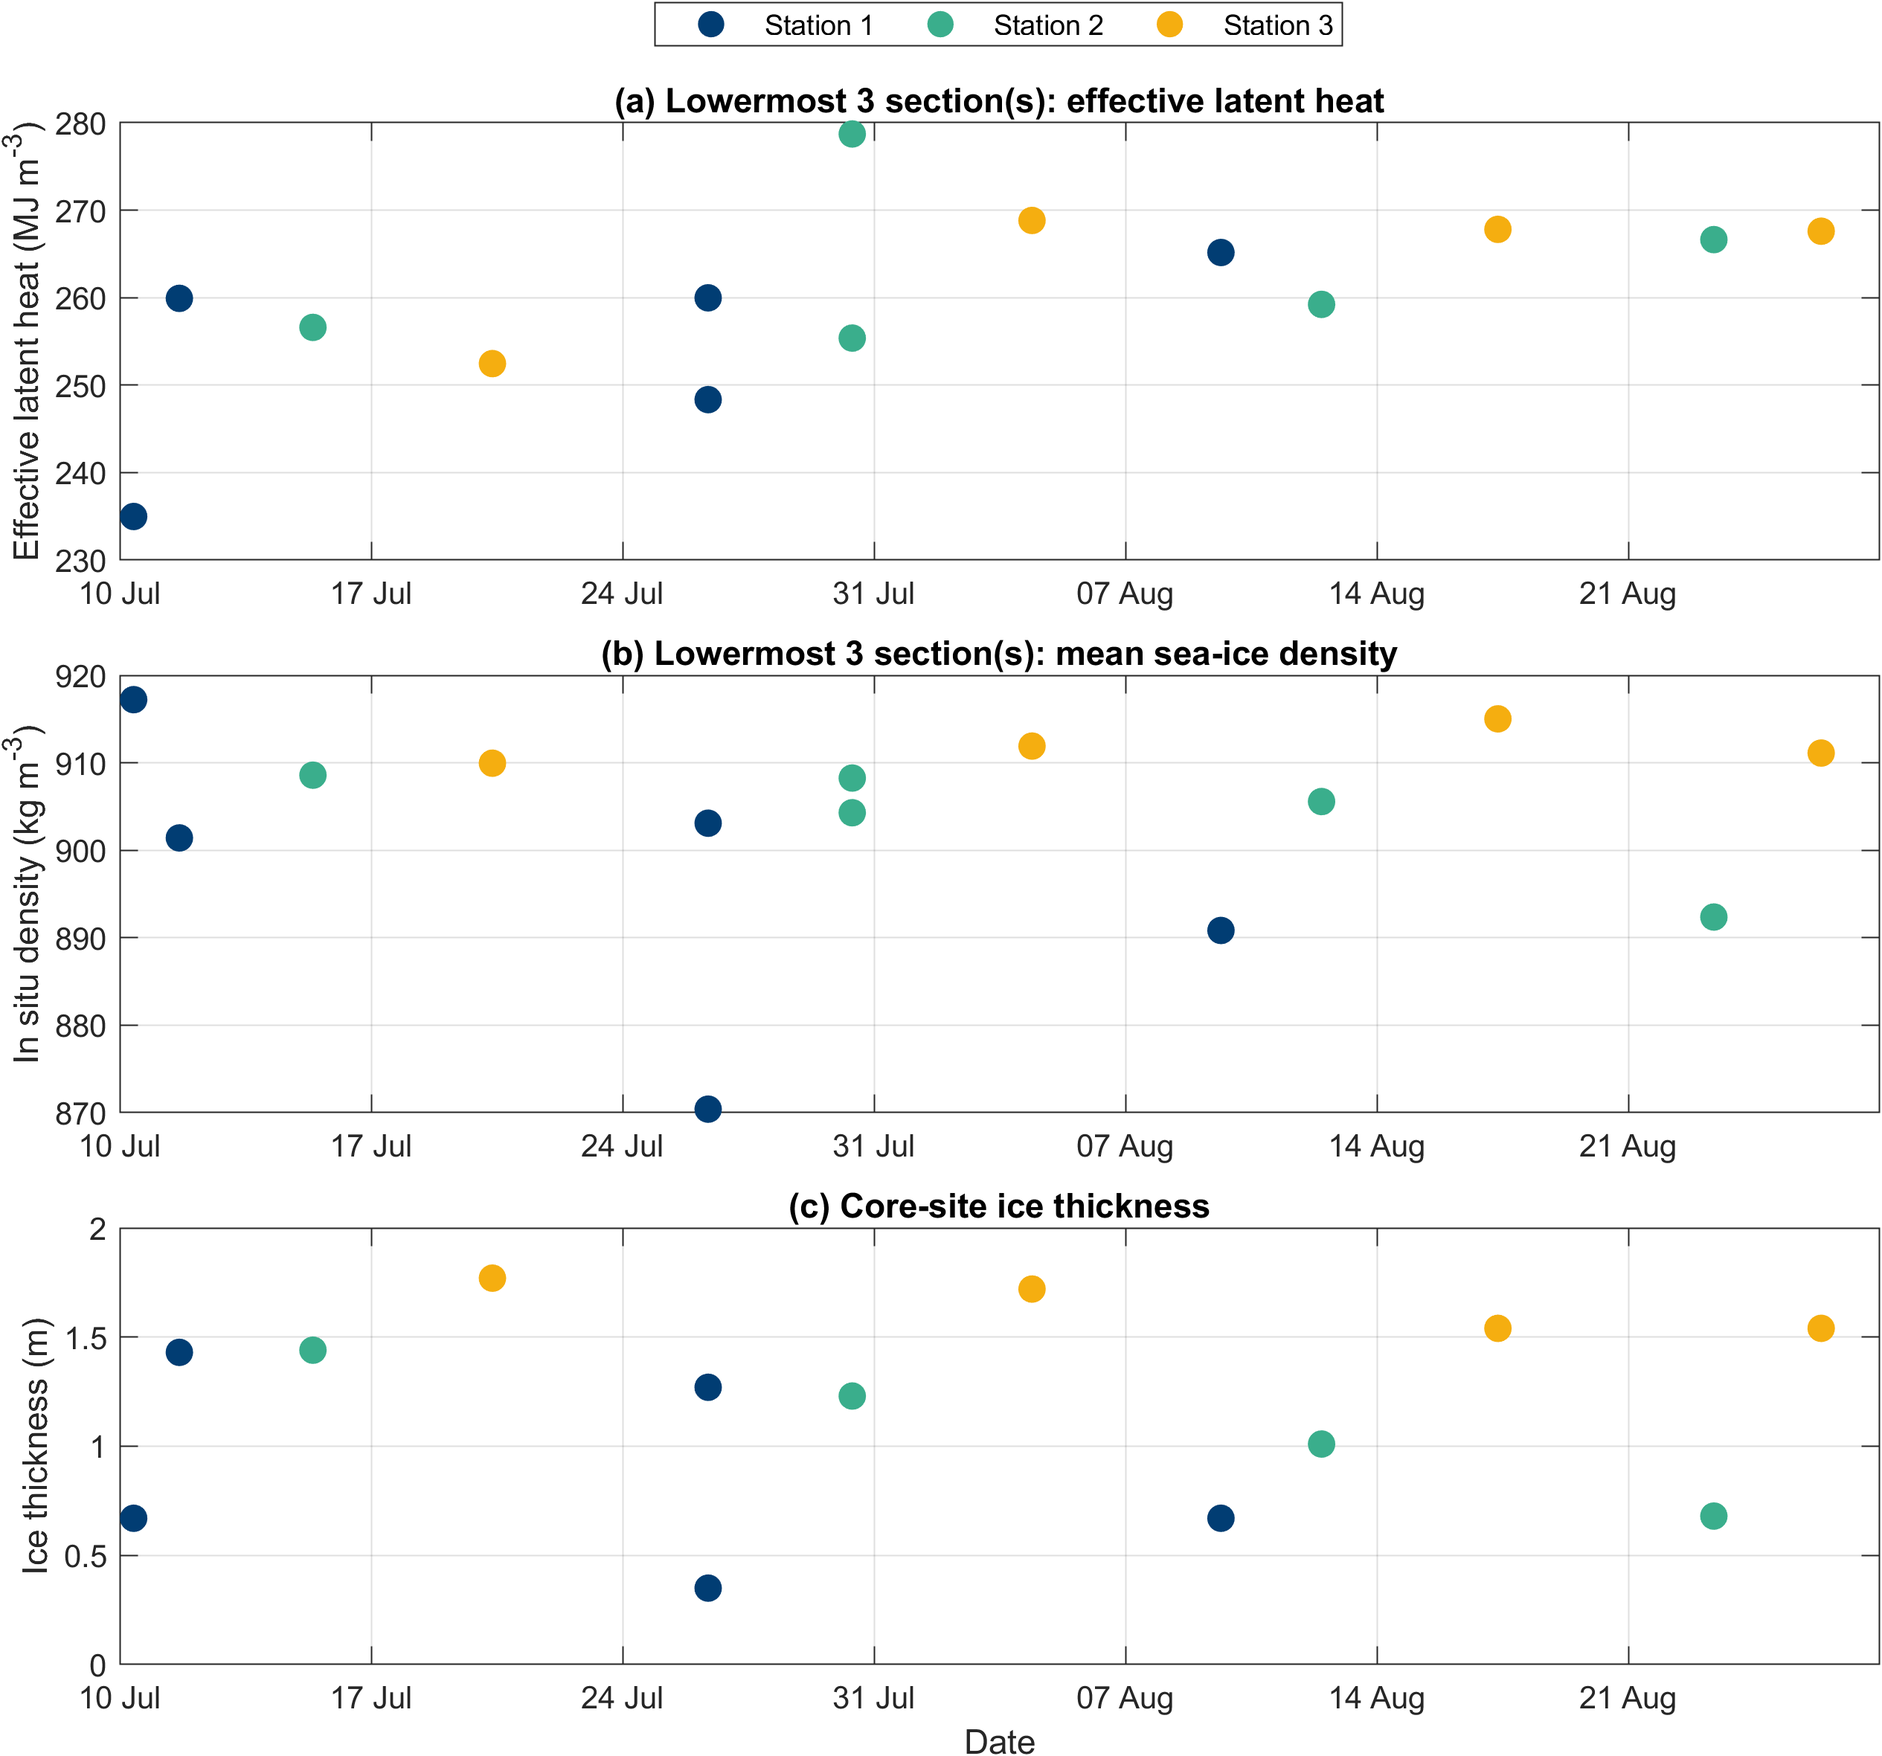
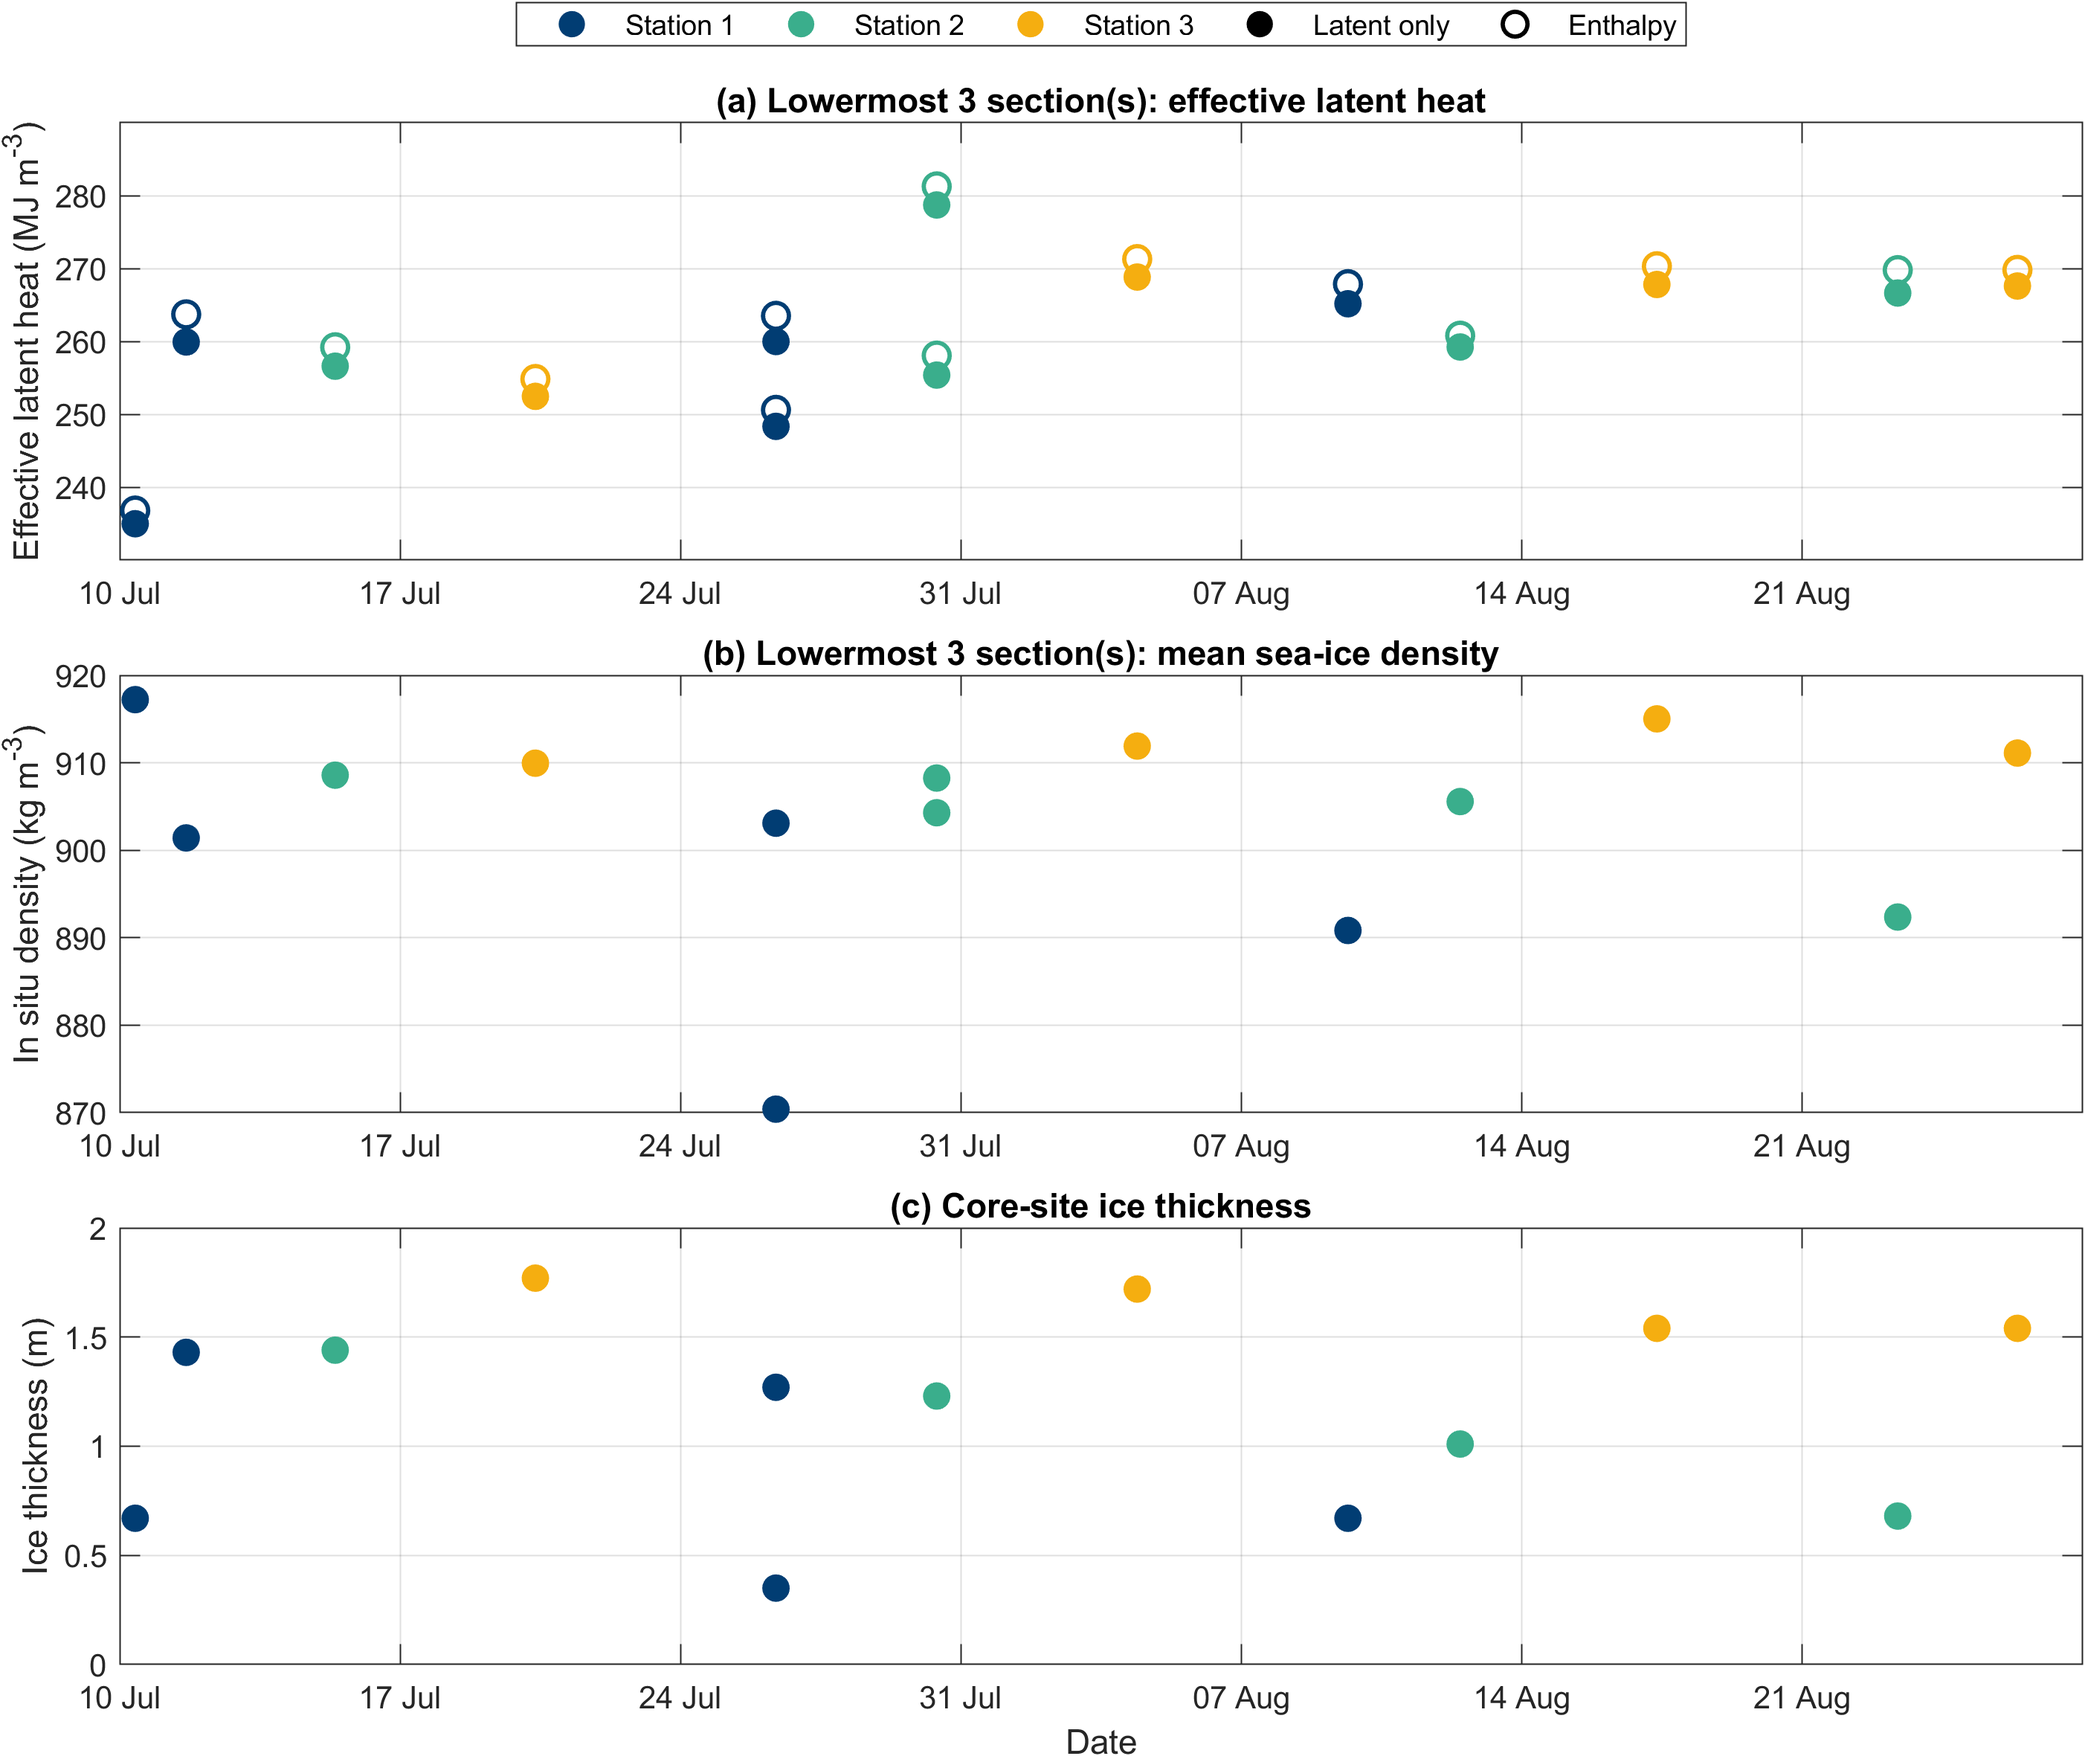
Add files via upload

diff --git a/analysis/e_latent_heat.m b/analysis/e_latent_heat.m
@@ -1,13 +1,15 @@
+% e_bottom_n_sections_latent_density_thickness_vs_time.m
 % Analysis script.
 % Not part of the published data-processing workflow.
 % Uses exported density NetCDF products to estimate
 % effective latent heat of the lowermost sea-ice layers.
-
-% e_bottom_n_sections_latent_density_thickness_vs_time.m
+%
 % Uses the deepest n sections of each density core.
 %
 % Plot:
 %   (1) effective latent heat of the lowermost ice vs time
+%       - filled markers: latent-only estimate
+%       - open markers: enthalpy-style estimate
 %   (2) mean in situ density of the lowermost ice vs time
 %   (3) total ice thickness vs time
 %
@@ -17,7 +19,7 @@ clear; close all; clc
 
 projectRoot = pwd;
 
-nBottomSections = 3;   % 1 = bottom 5 cm, 2 = bottom 10 cm
+nBottomSections = 3;   % CHANGE THIS: 1 = bottom 5 cm, 2 = bottom 10 cm, etc.
 
 ncFile = fullfile(projectRoot, "data", "final", "netcdf", ...
     "Contrasts_coring_density.nc");
@@ -104,7 +106,7 @@ for i = 1:nCores
 
 end
 
-% Remove empty rows, if any
+% Remove empty rows
 valid = ~isnat(CoreTime) & ~isnan(CoreID);
 
 CoreTime      = CoreTime(valid);
@@ -131,21 +133,55 @@ CoreDensity   = CoreDensity(I);
 CoreTemp      = CoreTemp(I);
 CoreNSections = CoreNSections(I);
 
-% ========================= Simple effective latent heat =========================
+% ========================= Effective latent heat estimates =========================
 
 Lf = 333.4e3;                        % J kg^-1
-rhoIce = 916.8 - 0.1403 .* CoreTemp; % kg m^-3
+
+T = CoreTemp;                        % deg C
+
+% Temperature-dependent properties
+rhoIce = 916.8 - 0.1403 .* T;        % kg m^-3, Pounder (1965)
+
+ci = 2112.2 + 7.6973 .* T;           % J kg^-1 K^-1, Weast (1971)
+
+Sb = -18.7 .* T ...
+     - 0.519 .* T.^2 ...
+     - 0.00535 .* T.^3;             % brine salinity, Vancoppenolle et al.
+
+cb = 4208.8 ...
+     + 111.71 .* T ...
+     + 3.5611 .* T.^2 ...
+     + 0.052168 .* T.^3;            % J kg^-1 K^-1, Fofonoff and Millard Jr. (1983)
+
+rhoBrine = 1000.3 ...
+         + 0.78237 .* Sb ...
+         + 2.8008e-4 .* Sb.^2;      % kg m^-3, Schwerdtfeger (1963)
 
 SolidFraction = 1 - CoreBrine - CoreGas;
 SolidFraction(SolidFraction < 0 | SolidFraction > 1) = NaN;
 
-EffectiveLatentHeat_Jm3 = rhoIce .* SolidFraction .* Lf;
-EffectiveLatentHeat_MJm3 = EffectiveLatentHeat_Jm3 / 1e6;
+% Method 1: latent heat only, based on solid ice volume fraction
+EffectiveLatentHeat_simple_Jm3 = rhoIce .* SolidFraction .* Lf;
+EffectiveLatentHeat_simple_MJm3 = EffectiveLatentHeat_simple_Jm3 / 1e6;
+
+% Method 2: enthalpy-style estimate including sensible heat of ice and brine
+EffectiveLatentHeat_enthalpy_Jm3 = ...
+      rhoIce .* SolidFraction .* Lf ...
+    + rhoIce .* SolidFraction .* ci .* abs(T) ...
+    + rhoBrine .* CoreBrine .* cb .* abs(T);
+
+EffectiveLatentHeat_enthalpy_MJm3 = EffectiveLatentHeat_enthalpy_Jm3 / 1e6;
+
+EnthalpyCorrection_MJm3 = ...
+    EffectiveLatentHeat_enthalpy_MJm3 - EffectiveLatentHeat_simple_MJm3;
 
 BottomNTable = table( ...
     CoreTime, CoreID, CoreStation, CoreNSections, CoreDepthMean, ...
     CoreThickness, CoreBrine, CoreGas, SolidFraction, ...
-    CoreDensity, CoreTemp, EffectiveLatentHeat_Jm3);
+    CoreDensity, CoreTemp, Sb, rhoIce, rhoBrine, ci, cb, ...
+    EffectiveLatentHeat_simple_Jm3, ...
+    EffectiveLatentHeat_enthalpy_Jm3, ...
+    EnthalpyCorrection_MJm3);
 
 % disp(BottomNTable)
 
@@ -154,11 +190,17 @@ BottomNTable = table( ...
 % writetable(BottomNTable, outTable);
 % fprintf("Saved table to %s\n", outTable);
 
-fprintf("Mean effective latent heat = %.1f MJ m^-3\n", ...
-    mean(EffectiveLatentHeat_MJm3, "omitnan"));
-fprintf("Std effective latent heat  = %.1f MJ m^-3\n", ...
-    std(EffectiveLatentHeat_MJm3, "omitnan"));
-fprintf("Mean bottom density        = %.1f kg m^-3\n", ...
+fprintf("Mean simple effective latent heat   = %.1f MJ m^-3\n", ...
+    mean(EffectiveLatentHeat_simple_MJm3, "omitnan"));
+fprintf("Std simple effective latent heat    = %.1f MJ m^-3\n", ...
+    std(EffectiveLatentHeat_simple_MJm3, "omitnan"));
+fprintf("Mean enthalpy effective latent heat = %.1f MJ m^-3\n", ...
+    mean(EffectiveLatentHeat_enthalpy_MJm3, "omitnan"));
+fprintf("Std enthalpy effective latent heat  = %.1f MJ m^-3\n", ...
+    std(EffectiveLatentHeat_enthalpy_MJm3, "omitnan"));
+fprintf("Mean enthalpy correction            = %.1f MJ m^-3\n", ...
+    mean(EnthalpyCorrection_MJm3, "omitnan"));
+fprintf("Mean bottom density                 = %.1f kg m^-3\n", ...
     mean(CoreDensity, "omitnan"));
 
 % ========================= Plot =========================
@@ -167,17 +209,23 @@ figure("Color","w");
 tiledlayout(3,1,"Padding","compact","TileSpacing","compact");
 
 ax1 = nexttile; hold on; grid on; box on
-plotByStation(CoreTime, EffectiveLatentHeat_MJm3, CoreStation, cols)
+
+% Filled markers: simple latent-only estimate
+plotByStation(CoreTime, EffectiveLatentHeat_simple_MJm3, CoreStation, cols, true)
+
+% Open markers: enthalpy-style estimate
+plotByStation(CoreTime, EffectiveLatentHeat_enthalpy_MJm3, CoreStation, cols, false)
+
 ylabel("Effective latent heat (MJ m^{-3})")
 title(sprintf("(a) Lowermost %d section(s): effective latent heat", nBottomSections))
 
 ax2 = nexttile; hold on; grid on; box on
-plotByStation(CoreTime, CoreDensity, CoreStation, cols)
+plotByStation(CoreTime, CoreDensity, CoreStation, cols, true)
 ylabel("In situ density (kg m^{-3})")
 title(sprintf("(b) Lowermost %d section(s): mean sea-ice density", nBottomSections))
 
 ax3 = nexttile; hold on; grid on; box on
-plotByStation(CoreTime, CoreThickness, CoreStation, cols)
+plotByStation(CoreTime, CoreThickness, CoreStation, cols, true)
 ylabel("Ice thickness (m)")
 title("(c) Core-site ice thickness")
 xlabel("Date")
@@ -193,7 +241,8 @@ xtickformat(ax1, "dd MMM")
 xtickformat(ax2, "dd MMM")
 xtickformat(ax3, "dd MMM")
 
-h = gobjects(3,1);
+h = gobjects(5,1);
+
 for st = 1:3
     h(st) = plot(ax1, NaN, NaN, "o", ...
         "MarkerSize", 8, ...
@@ -202,13 +251,28 @@ for st = 1:3
         "LineStyle", "none");
 end
 
-lgd = legend(h, ["Station 1","Station 2","Station 3"], ...
+h(4) = plot(ax1, NaN, NaN, "o", ...
+    "MarkerSize", 8, ...
+    "MarkerFaceColor", "k", ...
+    "MarkerEdgeColor", "k", ...
+    "LineStyle", "none");
+
+h(5) = plot(ax1, NaN, NaN, "o", ...
+    "MarkerSize", 8, ...
+    "MarkerFaceColor", "none", ...
+    "MarkerEdgeColor", "k", ...
+    "LineWidth", 1.4, ...
+    "LineStyle", "none");
+
+lgd = legend(h, ...
+    ["Station 1","Station 2","Station 3", ...
+     "Latent only","Enthalpy"], ...
     "Location","northoutside", ...
-    "NumColumns",3);
+    "NumColumns",5);
 lgd.Layout.Tile = "north";
 
 set([ax1 ax2 ax3], "FontSize", 10)
-set(gcf, "Units", "inches", "Position", [4 4 9 8])
+set(gcf, "Units", "inches", "Position", [4 4 10 8])
 
 outFig = fullfile(figFolder, ...
     sprintf("bottom_%d_sections_latent_density_thickness_vs_time.png", nBottomSections));
@@ -231,12 +295,19 @@ function mu = weightedMean(x, w)
     end
 end
 
-function plotByStation(x, y, st, cols)
+function plotByStation(x, y, st, cols, filledMarkers)
     for s = 1:3
         idx = st == s & ~isnan(y);
 
-        scatter(x(idx), y(idx), 70, "o", ...
-            "MarkerFaceColor", cols(s,:), ...
-            "MarkerEdgeColor", cols(s,:));
+        if filledMarkers
+            scatter(x(idx), y(idx), 70, "o", ...
+                "MarkerFaceColor", cols(s,:), ...
+                "MarkerEdgeColor", cols(s,:));
+        else
+            scatter(x(idx), y(idx), 70, "o", ...
+                "MarkerFaceColor", "none", ...
+                "MarkerEdgeColor", cols(s,:), ...
+                "LineWidth", 1.4);
+        end
     end
 end
